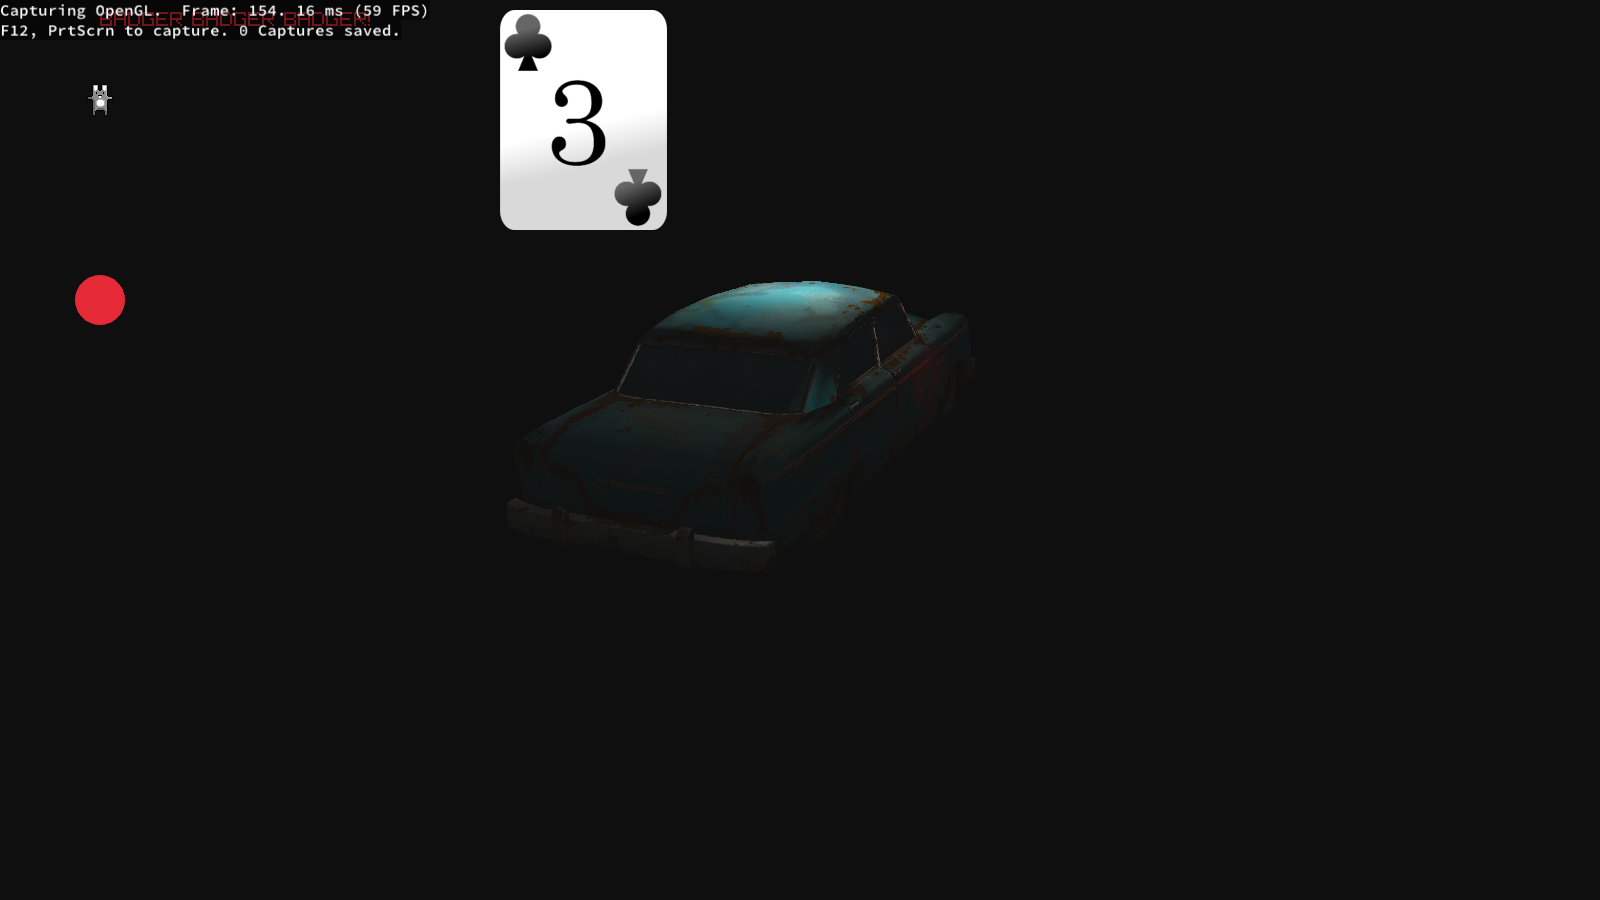
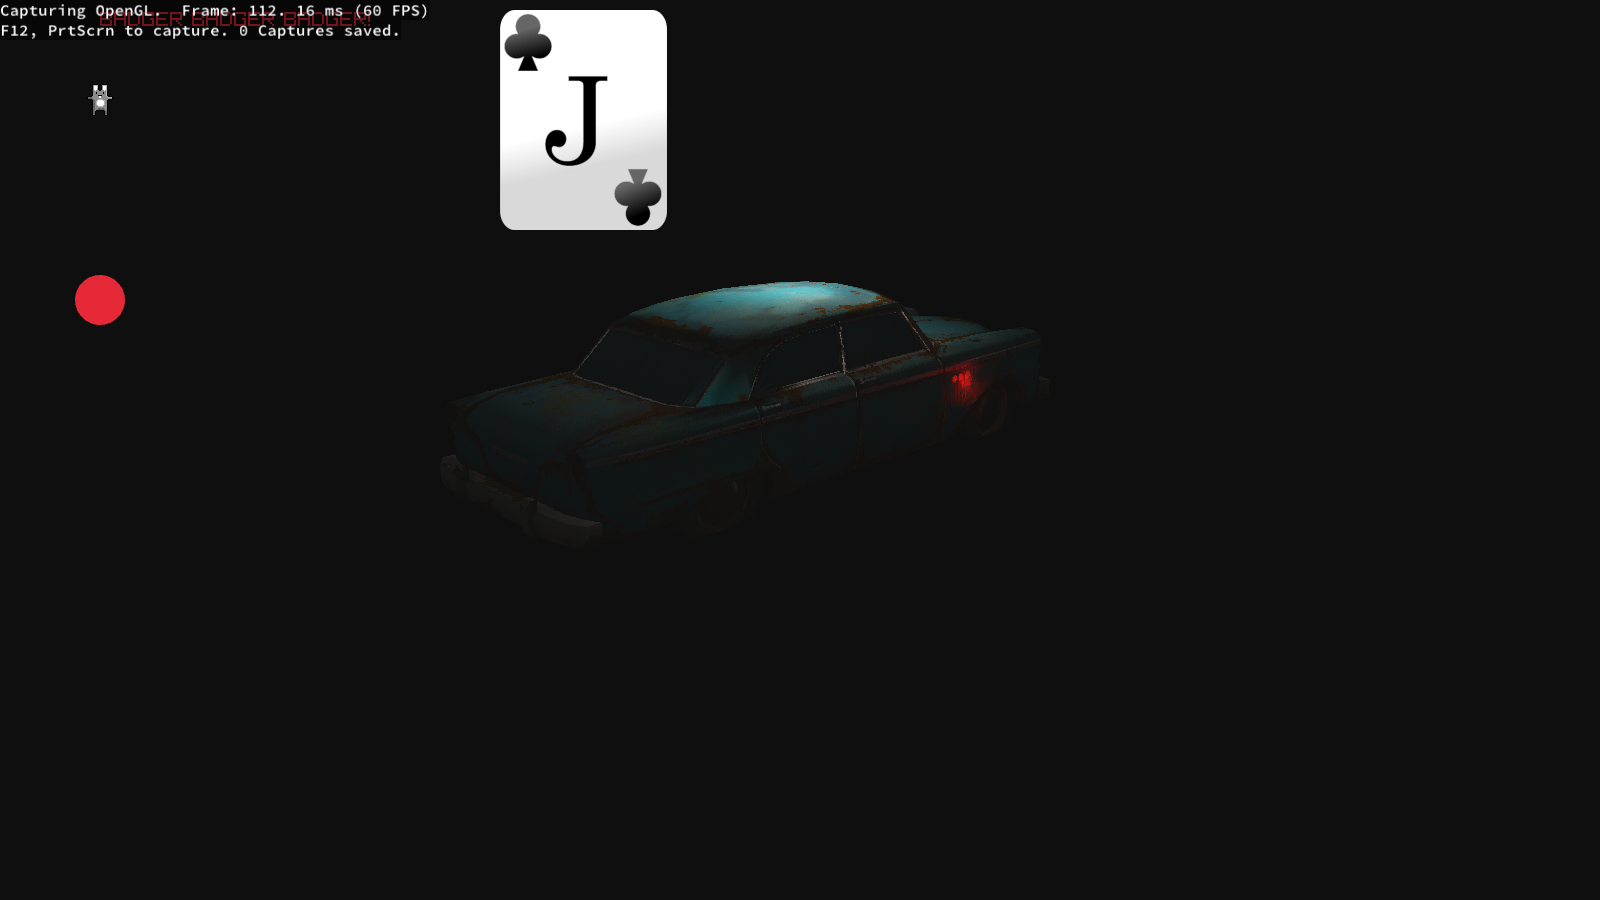
Messy WIP, Getting Billboards to render through new shaders

diff --git a/src/engine/actors/3D/billboard_sprite.cpp b/src/engine/actors/3D/billboard_sprite.cpp
@@ -23,6 +23,34 @@ BillboardSprite::BillboardSprite(std::string id, TextureAtlas* textureAtlas, std
     this->origin = raylib::Vector2(0.5f, 0.5f);
 
     this->camera3D = new raylib::Camera3D();
+
+    ShaderManager shaderManager = ShaderManager();
+    this->deferredShader = shaderManager.getShaderPtr("deferred");
+    this->gBufferShader = shaderManager.getShaderPtr("gbuffer");
+
+    // this->tilingVector = Vector2();
+    // this->tilingVector.x = 0.5;
+    // this->tilingVector.y = 0.5;
+    
+    // this->metallicValueLoc = this->gBufferShader->getShaderLocation("metallicValue");
+    // this->roughnessValueLoc = this->gBufferShader->getShaderLocation("roughnessValue");
+    // this->aoValueLoc = this->gBufferShader->getShaderLocation("aoValue");
+    // this->emissiveIntensityLoc = this->gBufferShader->getShaderLocation("emissivePower");
+    // this->emissiveColorLoc = this->gBufferShader->getShaderLocation("emissiveColor");
+    // this->textureTilingLoc = this->gBufferShader->getShaderLocation("tiling");
+
+    // // Set old car metallic and roughness values
+    // this->gBufferShader->setShaderValue(metallicValueLoc, &this->metalness, SHADER_UNIFORM_FLOAT);
+    // this->gBufferShader->setShaderValue(roughnessValueLoc, &this->roughness, SHADER_UNIFORM_FLOAT);
+    // this->gBufferShader->setShaderValue(aoValueLoc, &this->occlusion, SHADER_UNIFORM_FLOAT);
+
+    //     // Set old car model texture tiling, emissive color and emissive intensity parameters on shader
+    // this->gBufferShader->setShaderValue(textureTilingLoc, &this->tilingVector, SHADER_UNIFORM_VEC2);
+
+    // Vector4 emissiveColor = ColorNormalize(raylib::Color::White());
+    // this->gBufferShader->setShaderValue(emissiveColorLoc, &emissiveColor, SHADER_UNIFORM_VEC4);
+
+    // this->gBufferShader->setShaderValue(emissiveIntensityLoc, &this->emissiveIntensity, SHADER_UNIFORM_FLOAT);
 }
 
 BillboardSprite::~BillboardSprite() {
@@ -77,6 +105,10 @@ void BillboardSprite::setSpecularTexture(TextureAtlas* textureAtlas) {
 
 void BillboardSprite::setSceneCamera(raylib::Camera3D* camera) {
     this->camera3D = camera;
+}
+
+void BillboardSprite::setRenderMode(BILLBOARD_RENDER_MODE mode) {
+    this->renderMode = mode;
 }
 
 void BillboardSprite::playAnimation(std::string animationID) {
@@ -161,16 +193,12 @@ void BillboardSprite::render() {
         case SPECULAR:
             atlasTexture = this->textureAtlas_Specular->getAtlasTexture();
             break;
-        
-        default:
-            atlasTexture = this->textureAtlas_Deffuse->getAtlasTexture();
-            break;
     }
 
     this->calculateRenderedPosition();
 
     if (atlasTexture->IsValid() && this->currentFrameID != "") {
-        this->drawBillboardTexture(this->textureAtlas_Deffuse->getAtlasTexture());
+        this->drawBillboardTexture(atlasTexture);
     }
 }
 

diff --git a/src/engine/screen/scene.cpp b/src/engine/screen/scene.cpp
@@ -211,6 +211,7 @@ void Scene::addActor(BaseActor* actor) {
 
         case ACTOR_3D_BILLBOARD:
             this->signal_render_3D_BILLBOARD.connect(actor->onRender);
+            this->signal_set_3D_BILLBOARD_RENDER_MODE.connect(dynamic_cast<BillboardSprite*>(actor)->onChangeRenderMode);
         break;
 
         case ACTOR_3D_OVER:
@@ -237,6 +238,7 @@ void Scene::removeActor(std::string id) {
 
         case ACTOR_3D_BILLBOARD:
             this->signal_render_3D_BILLBOARD.disconnect(actor->onRender);
+            this->signal_set_3D_BILLBOARD_RENDER_MODE.disconnect(dynamic_cast<BillboardSprite*>(actor)->onChangeRenderMode);
         break;
 
         case ACTOR_3D_OVER:
@@ -264,12 +266,38 @@ void Scene::onUpdate(float dT) const {
 }
 
 void Scene::onRender() const {
+    // this->signal_set_3D_BILLBOARD_RENDER_MODE.emit(OCCLUSION);
+    // this->signal_render_3D_BILLBOARD.emit();
+
+    // this->signal_set_3D_BILLBOARD_RENDER_MODE.emit(SPECULAR);
+    // this->signal_render_3D_BILLBOARD.emit();
+
     this->sceneRenderer3D->beginRender(this->camera3D);
         this->signal_render_3D.emit();
     this->sceneRenderer3D->endRenderAndProcess(this->camera3D);
 
+    ::BeginTextureMode(this->sceneRenderer3D->albedoTexture);
+        this->camera3D->BeginMode();
+            this->signal_set_3D_BILLBOARD_RENDER_MODE.emit(DEFFUSE);
+            this->signal_render_3D_BILLBOARD.emit();
+        this->camera3D->EndMode();
+    ::EndTextureMode();
+
+    ::BeginTextureMode(this->sceneRenderer3D->normalTexture);
+        this->camera3D->BeginMode();
+            this->signal_set_3D_BILLBOARD_RENDER_MODE.emit(NORMAL);
+            this->signal_render_3D_BILLBOARD.emit();
+        this->camera3D->EndMode();
+    ::EndTextureMode();
+
     this->sceneRenderer3D->beginBillboardRender(this->camera3D);
-        this->signal_render_3D_BILLBOARD.emit();
+        ::rlActiveTextureSlot(1);
+        ::rlEnableTexture(this->sceneRenderer3D->albedoTexture.id);
+
+        ::rlActiveTextureSlot(2);
+        ::rlEnableTexture(this->sceneRenderer3D->normalTexture.id);
+
+        ::rlLoadDrawQuad();
     this->sceneRenderer3D->endBillboardRender(this->camera3D);
 
     this->camera3D->BeginMode();

diff --git a/include/engine/actors/3D/billboard_sprite.h b/include/engine/actors/3D/billboard_sprite.h
@@ -7,6 +7,8 @@
 #include <raylib.h>
 #include <engine/actors/base_actor.h>
 #include <engine/data/texture_atlas.h>
+#include <engine/render/shader_objects/rendering_shader.h>
+#include <engine/render/shader_objects/shader_manager.h>
 
 enum BILLBOARD_RENDER_MODE {
     DEFFUSE,
@@ -30,11 +32,27 @@ private:
 
     SpriteAnimation* currentAnimation;
 
+    RenderingShader* deferredShader;
+    RenderingShader* gBufferShader;
+
     bool playing;
 
     int frameSpeedCount; 
     int loopCount;
     void drawBillboardTexture(raylib::Texture2D* atlasTexture);
+
+    int metallicValueLoc = -1;
+    int roughnessValueLoc = -1;
+    int aoValueLoc = -1;
+    int emissiveIntensityLoc = -1;
+    int emissiveColorLoc = -1;
+    int textureTilingLoc = -1;
+
+    float metalness = 0.0f;
+    float roughness = 0.5f;
+    float occlusion = 0.5f;
+    float emissiveIntensity = 0.5f;
+    Vector2 tilingVector;
 public:
     // <Animation Name>
     sl::Signal<std::string> animationStarted;
@@ -44,6 +62,8 @@ public:
     sl::Signal<std::string, int, float> animationUpdating;
     // <Animation Name, Loops Left>
     sl::Signal<std::string, int> animationLooped;
+
+    sl::Slot<BILLBOARD_RENDER_MODE> onChangeRenderMode{this, &BillboardSprite::setRenderMode};
 
     raylib::Camera3D* camera3D;
 
@@ -66,6 +86,8 @@ public:
 
     void playAnimation(std::string animationID);
     void stopAnimation();
+
+    void setRenderMode(BILLBOARD_RENDER_MODE mode);
 
     void update(float dT) override;
     void render() override;

diff --git a/src/engine/render/scene_renderer_3D.cpp b/src/engine/render/scene_renderer_3D.cpp
@@ -12,6 +12,12 @@ SceneRenderer3D::SceneRenderer3D() {
     this->ambientColor = raylib::Color::White();
 
     this->graphicsBuffer = new GraphicsBuffer(this->deferredShader);
+
+    this->albedoTexture = LoadRenderTexture(SCREEN_WIDTH, SCREEN_HEIGHT);
+    this->normalTexture = LoadRenderTexture(SCREEN_WIDTH, SCREEN_HEIGHT);
+
+    this->albedoLoc = this->billboardShader->getShaderLocation("gAlbedo");
+    this->normalLoc = this->billboardShader->getShaderLocation("gNormal");
 }
 
 SceneRenderer3D::~SceneRenderer3D() {
@@ -52,8 +58,8 @@ void SceneRenderer3D::setUpRenderer() {
 
     ::rlEnableDepthTest();
 
-    this->graphicsBuffer->readyForDrawing();
-    this->graphicsBuffer->endBufferDrawing();
+    // this->graphicsBuffer->readyForDrawing();
+    // this->graphicsBuffer->endBufferDrawing();
 }
 
 void SceneRenderer3D::beginRender(raylib::Camera3D* camera) {
@@ -96,6 +102,9 @@ void SceneRenderer3D::endRenderAndProcess(raylib::Camera3D* camera) {
 }
 
 void SceneRenderer3D::beginBillboardRender(raylib::Camera3D* camera) {
+    this->billboardShader->setShaderValue(this->albedoLoc, &this->albedoTexture, SHADER_UNIFORM_SAMPLER2D);
+    this->billboardShader->setShaderValue(this->normalLoc, &this->normalTexture, SHADER_UNIFORM_SAMPLER2D);
+
     // Base Render Pass
     camera->BeginMode();
         this->billboardShader->enableShader();

diff --git a/include/engine/screen/scene.h b/include/engine/screen/scene.h
@@ -12,6 +12,7 @@
 #include <engine/actors/container.h>
 
 #include <engine/render/scene_renderer_3D.h>
+#include <engine/actors/3D/billboard_sprite.h>
 
 using json = nlohmann::json;
 
@@ -59,6 +60,7 @@ class Scene
         sl::Signal<> signal_render_3D;
         sl::Signal<> signal_render_3D_BILLBOARD;
         sl::Signal<> signal_render_3D_OVER;
+        sl::Signal<BILLBOARD_RENDER_MODE> signal_set_3D_BILLBOARD_RENDER_MODE;
 
         Scene();
         Scene(std::string id, json sceneData);

diff --git a/include/engine/render/scene_renderer_3D.h b/include/engine/render/scene_renderer_3D.h
@@ -30,6 +30,11 @@ class SceneRenderer3D {
 
         GraphicsBuffer* graphicsBuffer;
 
+        int albedoLoc = -1;
+        int normalLoc = -1;
+        RenderTexture2D albedoTexture;
+        RenderTexture2D normalTexture;
+
         SceneRenderer3D();
         ~SceneRenderer3D();
 
